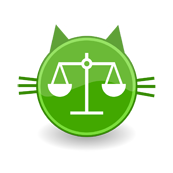
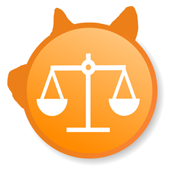
changed images, css, and config files to prepare for wp8 platform

diff --git a/merges/wp8/main.html b/merges/wp8/main.html
@@ -1,12 +1,14 @@
+<!DOCTYPE html>
 <html lang="en">
 <head>
     <meta charset="utf-8">
-    <title>KittehCoin Balance</title>
+    <title>Dogecoin Balance Wow</title>
     <meta name="viewport" content="width=device-width, initial-scale=1.0">
 	<link rel="icon" href="favicon.ico" type="image/x-icon" />
     <link rel="stylesheet" href="css/bootstrap.min.css"/>
     <link rel="stylesheet" href="css/bootstrap-responsive.css"/>
     <link rel="stylesheet" href="css/app.css"/>
+    <link rel="stylesheet" href="css/custom.css"/>
 	<link rel="stylesheet" href="http://cdnjs.cloudflare.com/ajax/libs/font-awesome/4.0.3/css/font-awesome.min.css"/>
 </head>
 <body ng-app="app">

diff --git a/merges/wp8/css/custom.css b/merges/wp8/css/custom.css
@@ -1,0 +1,3 @@
+.table-balances > tr > td {
+	text-align: left;
+}

diff --git a/platforms/wp8/Properties/AssemblyInfo.cs b/platforms/wp8/Properties/AssemblyInfo.cs
@@ -24,7 +24,7 @@ using System.Resources;
 [assembly: ComVisible(false)]
 
 // The following GUID is for the ID of the typelib if this project is exposed to COM
-[assembly: Guid("a887a769-3cde-4b85-a3db-b6f4008ed9df")]
+[assembly: Guid("feff07de-d9da-4f6e-a5be-cc1bab4873d9")]
 
 // Version information for an assembly consists of the following four values:
 //
